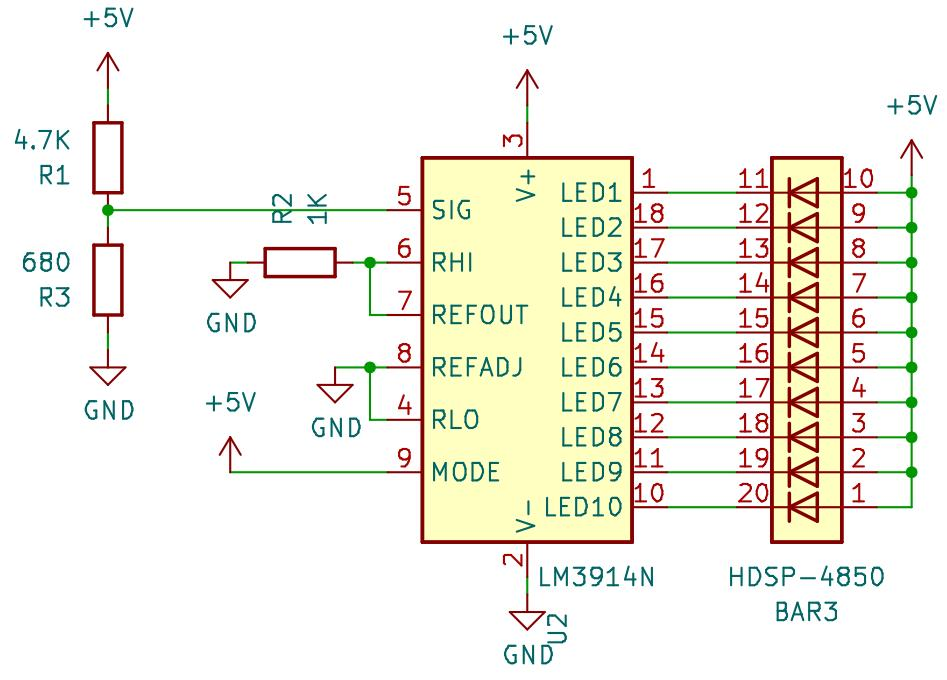
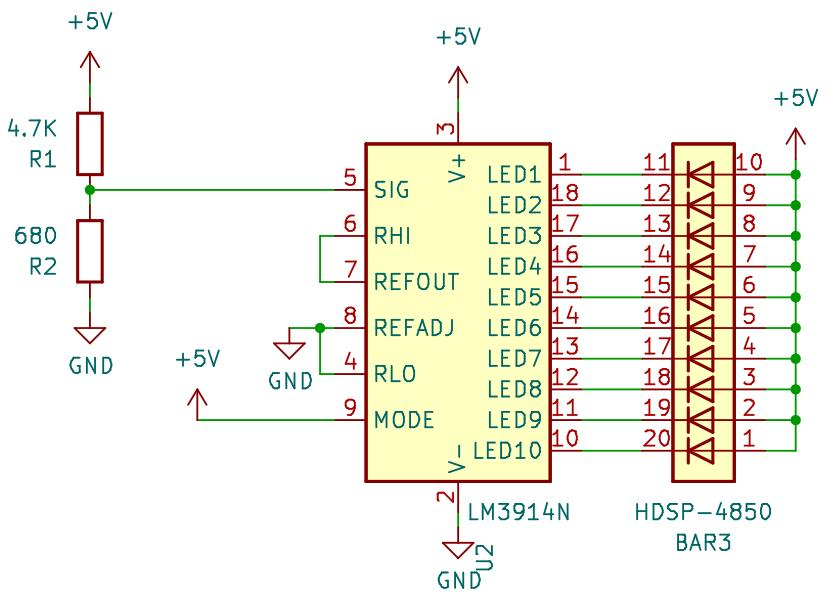
u

Changed region(s): [[0.0, 0.0, 0.9664, 0.99], [0.9353, 0.12, 0.9976, 0.18]]

diff --git a/techtips/Electronics/LM3914/circuit_01.html b/techtips/Electronics/LM3914/circuit_01.html
@@ -44,25 +44,35 @@
         To generate a voltage between 0 V and 1.2 V, we use a voltage divider with<br>
         <ul>
           <li>R1=4.7K &#8486;</li>
-          <li>R3=680 &#8486;</li>
+          <li>R2=680 &#8486;</li>
         </ul>
 
 
         The resulting voltage at the connection between R1 and R3 is<br>
         <div class="code">
-          U= R3 /(R1+R3) * 5V = 680/(680+4700) = 0.126 * 5V
+          U= R2 /(R1+R2) * 5V = 680/(680+4700) = 0.126 * 5V
         </div>
         <div class="code">
-          U=  0.632 V
+          U= 0.632 V
         </div>
-        <p>
-          We need a resistor between RHI and ground to control the LED brightness.
-        </p>
         <img src="images/circuit_01_schem.jpg" alt="circuit_01_schem" width="600">
 
 
         <img src="images/circuit_01_pic.jpg" alt="circuit_01_pic" width="600">
 
+
+
+        <h4>Brightness Control</h4>
+        <p>
+          To increase the LED brightness, we can add a resistor R3 between RHI and ground.
+        </p>
+        <img src="images/circuit_01_brightness_up.jpg" alt="circuit_01_brightness_up" width="600">
+
+        <p>
+          To reduce the LED brightness, we can add a resistor R4 between the +5V rail and the positive side of the bar
+          display.
+        </p>
+        <img src="images/circuit_01_brightness_down.jpg" alt="circuit_01_brightness_down" width="600">
 
 
       </div>

diff --git a/techtips/Electronics/index.html b/techtips/Electronics/index.html
@@ -29,8 +29,22 @@
 
   <div class="row">
     <div class="leftcolumn">
+
       <div class="card">
-        <a href="LM3914/index.html">lm3914</a><br>
+
+        <table id="techtips_table">
+          <tr>
+            <td id="techtips_cell">
+              <a href="LM3914/index.html"><img src="images/LM3914.jpg" alt="LM3914" height="60"></a><br>
+              <a href="LM3914/index.html">LM3914</a>
+            </td>
+            <td id="techtips_cell">
+            </td>
+            <td id="techtips_cell">
+            </td>
+          </tr>
+        </table>
+
       </div>
 
       <div class="card">
